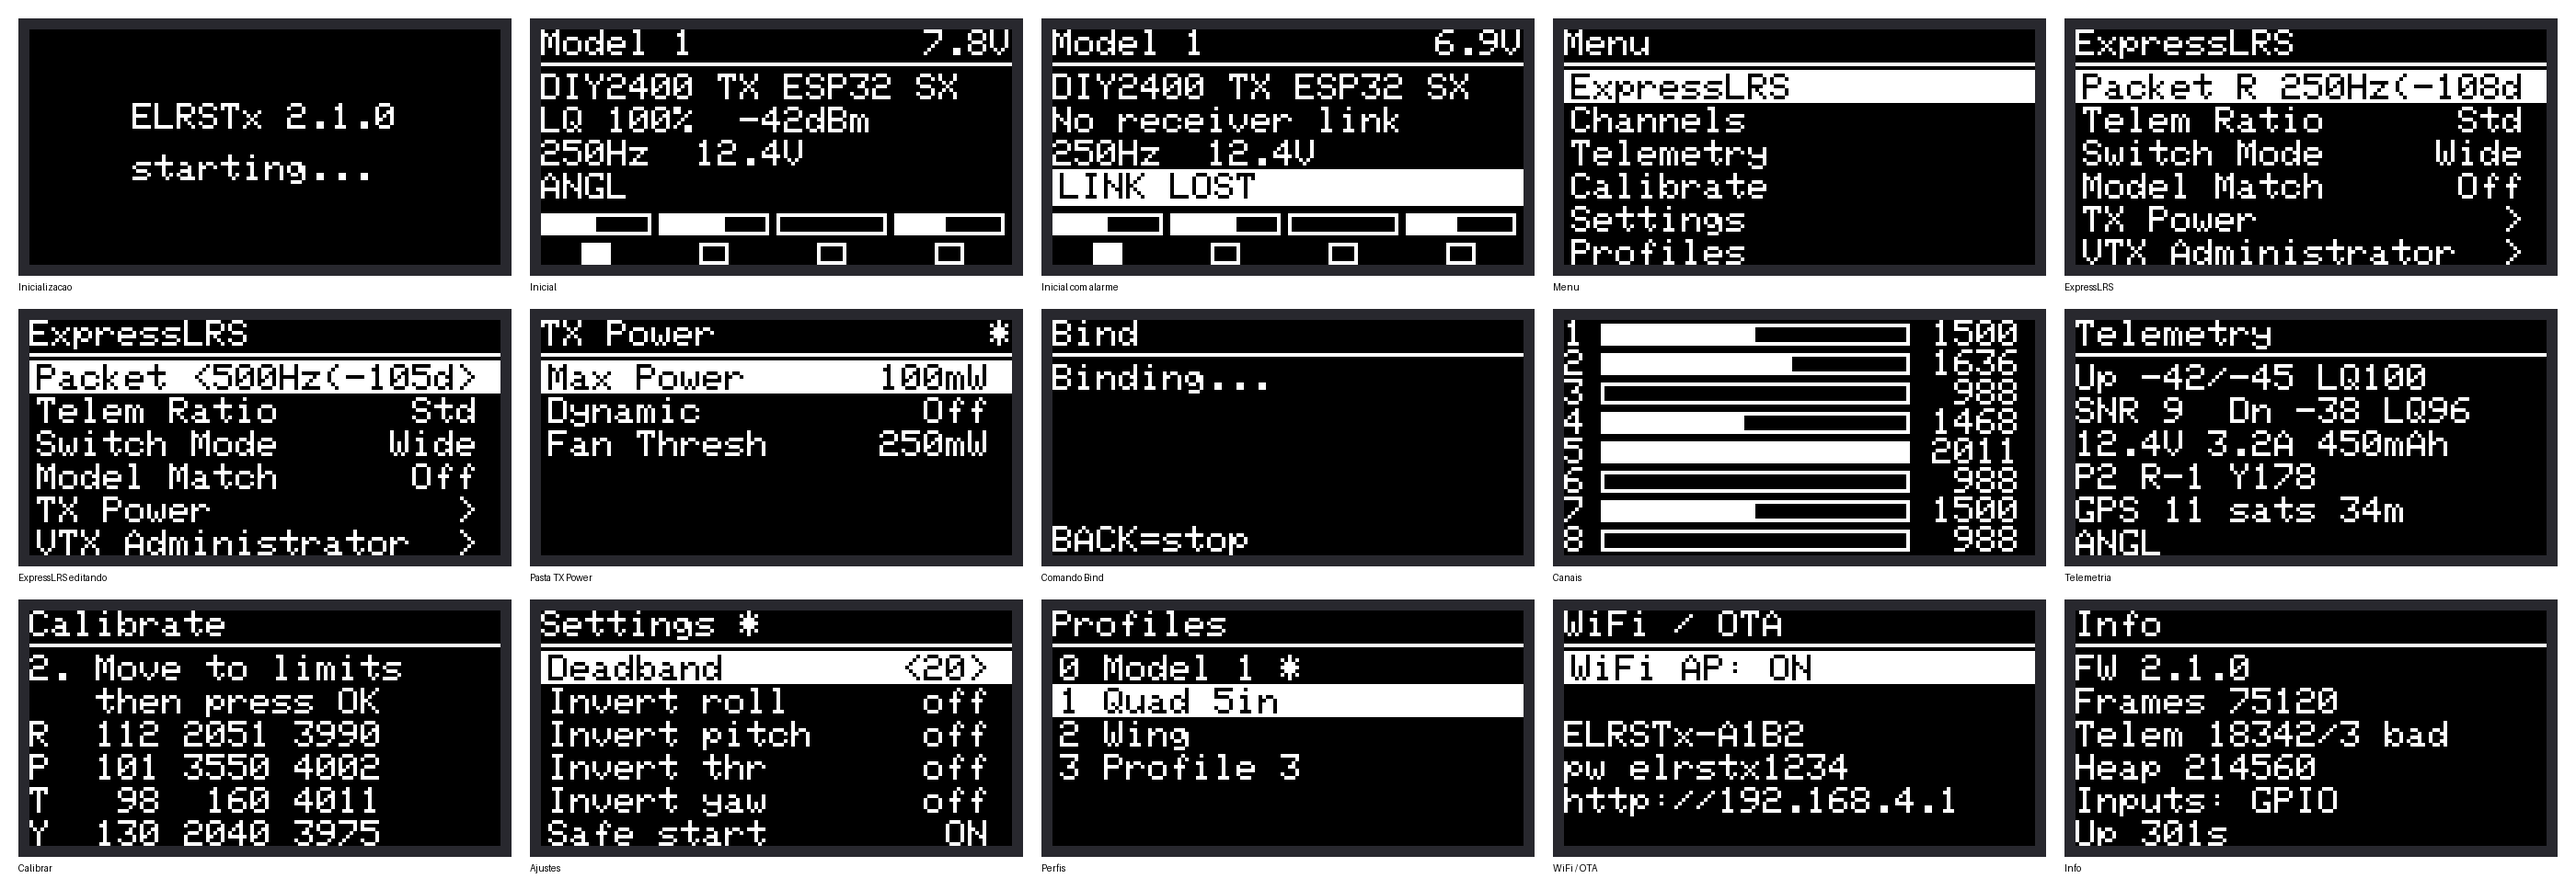
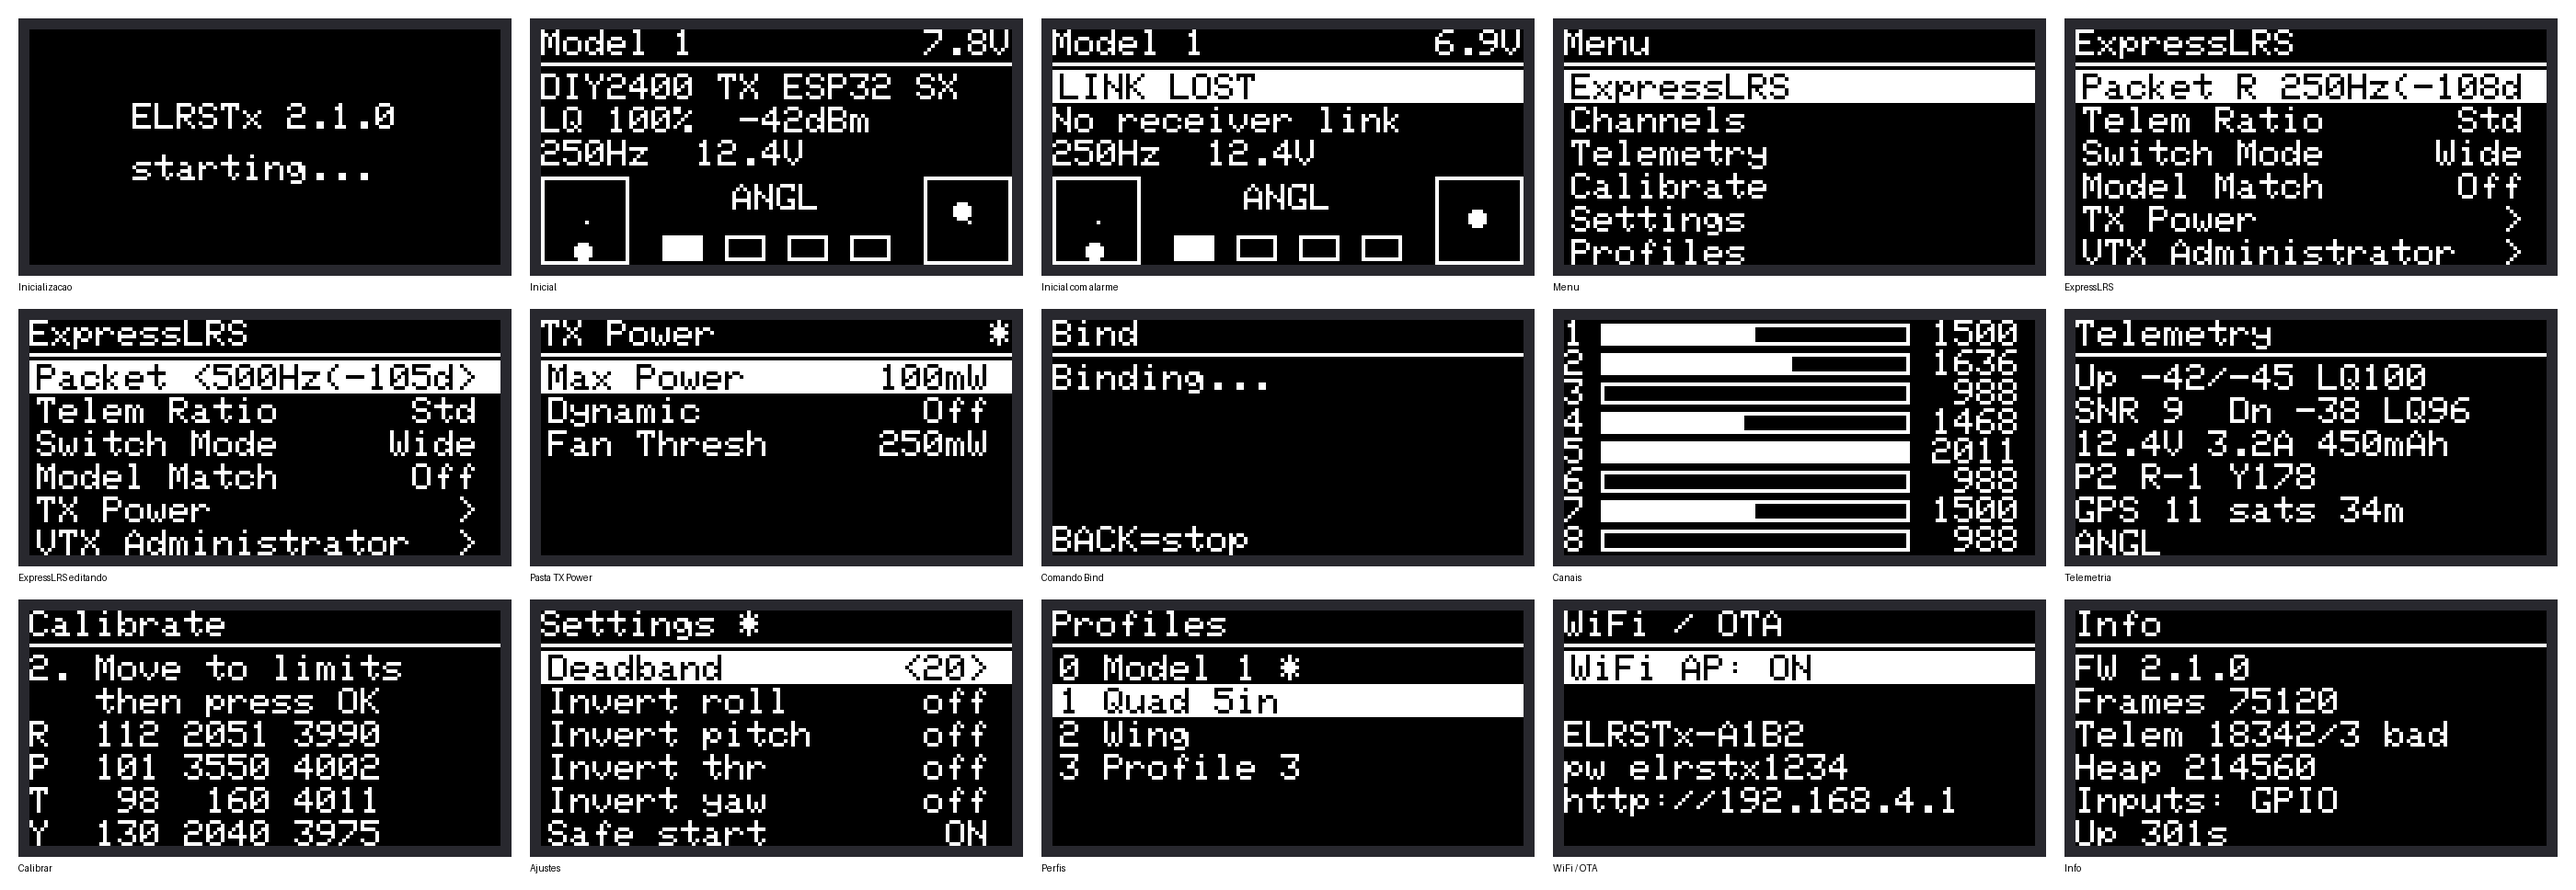
Show the sticks as EdgeTX-style gimbal squares on the home screen

Changed region(s): [[0.1864, 0.186, 0.5904, 0.3099], [0.4039, 0.062, 0.5904, 0.124]]

diff --git a/docs/screens/render_screens.py b/docs/screens/render_screens.py
@@ -114,24 +114,34 @@ class Mono:
             b = "%.1fV" % v["tx_batt"]
             self.t(128 - len(b) * 6, 0, b)
         self.g.fill_rect(0, 9, 128, 1, self.ON)
-        self.t(0, 12, v["device"])
+        if v["alarm"]:
+            self.inverted(12, v["alarm"][1])
+        else:
+            self.t(0, 12, v["device"])
         self.t(0, 21, "LQ %3u%%  -%udBm" % (v["lq"], v["rssi"]) if v["link"] else "No receiver link")
         rate = "%uHz" % v["rate"] + ("" if v["synced"] else " nosync")
         if v["rx_batt"]:
             rate += "  %.1fV" % v["rx_batt"]
         self.t(0, 30, rate)
-        if v["alarm"]:
-            self.g.fill_rect(0, 38, 128, 10, self.ON)
-            self.t(2, 39, v["alarm"][1], self.OFF)
-        elif v["mode"]:
-            self.t(0, 39, v["mode"])
-        for a in range(4):
-            self.bar(a * 32, 50, 30, 6, v["stick"][a])
+        self.gimbal(0, 40, v["gimbal"][0])
+        self.gimbal(104, 40, v["gimbal"][1])
+        if v["mode"]:
+            m = v["mode"][:12]
+            self.t(64 - len(m) * 3, 42, m)
         for i in range(4):
+            x = 33 + i * 17
             if v["aux"][i]:
-                self.g.fill_rect(i * 32 + 11, 58, 8, 6, self.ON)
+                self.g.fill_rect(x, 56, 11, 7, self.ON)
             else:
-                self.g.rect(i * 32 + 11, 58, 8, 6, self.ON)
+                self.g.rect(x, 56, 11, 7, self.ON)
+
+    def gimbal(self, x, y, pos):
+        S = 24
+        self.g.rect(x, y, S, S, self.ON)
+        self.g.fill_rect(x + S // 2, y + S // 2, 1, 1, self.ON)
+        px = x + 3 + int(pos[0] * (S - 7))
+        py = y + 3 + int((1 - pos[1]) * (S - 7))
+        self.g.d.ellipse([px - 2, py - 2, px + 2, py + 2], fill=self.ON)
 
     def list(self, v):
         self.header(v["title"])
@@ -261,18 +271,24 @@ class Color:
             self.t((240 - width(v["alarm"][1])) // 2, 129, v["alarm"][1], self.BG)
         elif v["mode"]:
             self.t(8, 129, v["mode"], self.ACCENT)
-        for a in range(4):
-            x = 8 + a * 58
-            self.t(x + 22, 158, "RPTY"[a], self.DIM, 1)
-            self.bar(x, 168, 52, 14, v["stick"][a], self.ACCENT)
+        self.gimbal(8, 160, v["gimbal"][0])
+        self.gimbal(240 - 8 - 70, 160, v["gimbal"][1])
         for i in range(4):
-            x = 8 + i * 58
+            x, y = 86 + (i % 2) * 36, 162 + (i // 2) * 36
             if v["aux"][i]:
-                self.g.round_rect(x, 196, 52, 30, 4, self.GOOD)
-                self.t(x + 14, 203, "A%d" % (i + 1), self.BG)
+                self.g.round_rect(x, y, 32, 32, 4, self.GOOD)
+                self.t(x + 4, y + 9, "A%d" % (i + 1), self.BG)
             else:
-                self.g.round_rect(x, 196, 52, 30, 4, self.OUTLINE, fill=False)
-                self.t(x + 14, 203, "A%d" % (i + 1), self.DIM)
+                self.g.round_rect(x, y, 32, 32, 4, self.OUTLINE, fill=False)
+                self.t(x + 4, y + 9, "A%d" % (i + 1), self.DIM)
+
+    def gimbal(self, x, y, pos, S=70, R=6):
+        self.g.rect(x, y, S, S, self.OUTLINE)
+        self.g.fill_rect(x + 1, y + S // 2, S - 2, 1, self.HEADER_BG)
+        self.g.fill_rect(x + S // 2, y + 1, 1, S - 2, self.HEADER_BG)
+        px = x + R + 2 + int(pos[0] * (S - 2 * R - 4))
+        py = y + R + 2 + int((1 - pos[1]) * (S - 2 * R - 4))
+        self.g.d.ellipse([px - R, py - R, px + R, py + R], fill=self.ACCENT)
 
     def list(self, v):
         rows, cur, n = v["rows"], v["cursor"], self.LIST_ROWS
@@ -360,7 +376,7 @@ class Color:
 CH = [992, 1210, 172, 940, 1811, 172, 992, 172, 1400, 992, 600, 992, 992, 992, 992, 992]
 HOME = dict(title="Model 1", tx_batt=7.8, tx_level=None, device="DIY2400 TX ESP32 SX", link=True, lq=100,
             rssi=42, rate=250, synced=True, rx_batt=12.4, alarm=None, mode="ANGL",
-            stick=[frac(CH[i]) for i in (0, 1, 2, 3)], aux=[c > 992 for c in CH[4:8]])
+            gimbal=[(frac(CH[0]), frac(CH[2])), (frac(CH[3]), frac(CH[1]))], aux=[c > 992 for c in CH[4:8]])
 ELRS_ROOT = [dict(label="Packet Rate", value="250Hz(-108dBm)"), dict(label="Telem Ratio", value="Std"),
              dict(label="Switch Mode", value="Wide"), dict(label="Model Match", value="Off"),
              dict(label="TX Power", folder=True), dict(label="VTX Administrator", folder=True),
@@ -375,7 +391,7 @@ SCREENS = [
     ("00-splash", "Inicializacao", lambda d: d.splash("2.1.0")),
     ("01-home", "Inicial", lambda d: d.home(HOME)),
     ("02-home-alarm", "Inicial com alarme",
-     lambda d: d.home(dict(HOME, link=False, alarm=("crit", "LINK LOST"), tx_batt=6.9, tx_level="warn"))),
+     lambda d: d.home(dict(HOME, link=False, alarm=("crit", "LINK LOST"), gimbal=[(0.5, 0.0), (0.5, 0.5)], tx_batt=6.9, tx_level="warn"))),
     ("03-menu", "Menu", lambda d: d.list(dict(title="Menu", cursor=0, rows=[dict(label=l) for l in [
         "ExpressLRS", "Channels", "Telemetry", "Calibrate", "Settings", "Profiles", "WiFi / OTA", "Info"]]))),
     ("04-elrs", "ExpressLRS", lambda d: d.list(dict(title="ExpressLRS", cursor=0, rows=ELRS_ROOT))),

diff --git a/src/DisplaySSD1306.cpp b/src/DisplaySSD1306.cpp
@@ -32,6 +32,16 @@ void bar(int16_t x, int16_t y, int16_t w, int16_t h, float f) {
     oled.fillRect(x + 1, y + 1, (int16_t)((w - 2) * f), h - 2, ON);
 }
 
+// Square with a dot at the stick position (EdgeTX style), 24x24
+void gimbal(int16_t x, int16_t y, const float* pos) {
+    constexpr int16_t S = 24;
+    oled.drawRect(x, y, S, S, ON);
+    oled.drawPixel(x + S / 2, y + S / 2, ON);
+    const int16_t px = x + 3 + (int16_t)(pos[0] * (S - 7));
+    const int16_t py = y + 3 + (int16_t)((1 - pos[1]) * (S - 7));
+    oled.fillCircle(px, py, 2, ON);
+}
+
 void inverted(int16_t y, const char* s) {
     oled.fillRect(0, y - 1, 128, 9, ON);
     oled.setTextColor(OFF);
@@ -86,7 +96,9 @@ void home(const HomeView& v) {
     }
     oled.drawFastHLine(0, 9, 128, ON);
 
-    text(0, 12, !v.moduleAlive ? "No ELRS module" : v.deviceName[0] ? v.deviceName : "ELRS module OK");
+    // An alarm takes the module line, inverted
+    if (v.alarm != Level::None) inverted(12, v.alarmText);
+    else text(0, 12, !v.moduleAlive ? "No ELRS module" : v.deviceName[0] ? v.deviceName : "ELRS module OK");
 
     if (v.link) snprintf(buf, sizeof(buf), "LQ %3u%%  -%udBm", v.lq, v.rssi);
     else snprintf(buf, sizeof(buf), "No receiver link");
@@ -97,19 +109,17 @@ void home(const HomeView& v) {
     if (v.rxBatteryValid) rate += "  " + String(v.rxBatteryDv / 10.0f, 1) + "V";
     text(0, 30, rate.c_str());
 
-    if (v.alarm != Level::None) {
-        oled.fillRect(0, 38, 128, 10, ON);
-        oled.setTextColor(OFF);
-        text(2, 39, v.alarmText);
-        oled.setTextColor(ON);
-    } else if (v.flightMode[0]) {
-        text(0, 39, v.flightMode);
+    // Gimbals in the bottom corners, flight mode and AUX switches between them
+    gimbal(0, 40, v.gimbal[0]);
+    gimbal(104, 40, v.gimbal[1]);
+    if (v.flightMode[0]) {
+        String m = String(v.flightMode).substring(0, 12);
+        text(64 - m.length() * 3, 42, m.c_str());
     }
-
-    for (uint8_t a = 0; a < 4; a++) bar(a * 32, 50, 30, 6, v.stick[a]);
     for (uint8_t i = 0; i < 4; i++) {
-        if (v.aux[i]) oled.fillRect(i * 32 + 11, 58, 8, 6, ON);
-        else oled.drawRect(i * 32 + 11, 58, 8, 6, ON);
+        const int16_t x = 33 + i * 17;
+        if (v.aux[i]) oled.fillRect(x, 56, 11, 7, ON);
+        else oled.drawRect(x, 56, 11, 7, ON);
     }
     oled.display();
 }

diff --git a/src/DisplayST7789.cpp b/src/DisplayST7789.cpp
@@ -110,6 +110,18 @@ void bar(int16_t x, int16_t y, int16_t w, int16_t h, float f, uint16_t color) {
     g->fillRect(x + 2, y + 2, (int16_t)((w - 4) * f), h - 4, color);
 }
 
+// Square with a dot at the stick position (EdgeTX style)
+constexpr int16_t GIMBAL = 70;
+void gimbal(int16_t x, int16_t y, const float* pos) {
+    constexpr int16_t R = 6;
+    g->drawRect(x, y, GIMBAL, GIMBAL, OUTLINE);
+    g->drawFastHLine(x + 1, y + GIMBAL / 2, GIMBAL - 2, HEADER_BG);
+    g->drawFastVLine(x + GIMBAL / 2, y + 1, GIMBAL - 2, HEADER_BG);
+    const int16_t px = x + R + 2 + (int16_t)(pos[0] * (GIMBAL - 2 * R - 4));
+    const int16_t py = y + R + 2 + (int16_t)((1 - pos[1]) * (GIMBAL - 2 * R - 4));
+    g->fillCircle(px, py, R, ACCENT);
+}
+
 }  // namespace
 
 bool begin() {
@@ -172,25 +184,20 @@ void home(const HomeView& v) {
             text(8, 129, v.flightMode, ACCENT);
         }
 
-        // Sticks
-        for (uint8_t a = 0; a < 4; a++) {
-            const int16_t x = 8 + a * 58;
-            const char l[2] = {v.axisLetter[a], 0};
-            text(x + 22, 158, l, DIM, 1);
-            bar(x, 168, 52, 14, v.stick[a], ACCENT);
-        }
-
-        // AUX switches
+        // Gimbals in the bottom corners, AUX switches 2x2 between them
+        gimbal(8, 160, v.gimbal[0]);
+        gimbal(SIZE - 8 - GIMBAL, 160, v.gimbal[1]);
         for (uint8_t i = 0; i < 4; i++) {
-            const int16_t x = 8 + i * 58;
+            const int16_t x = 86 + (i % 2) * 36;
+            const int16_t y = 162 + (i / 2) * 36;
             char l[4];
             snprintf(l, sizeof(l), "A%u", i + 1);
             if (v.aux[i]) {
-                g->fillRoundRect(x, 196, 52, 30, 4, GOOD);
-                text(x + 14, 203, l, BG);
+                g->fillRoundRect(x, y, 32, 32, 4, GOOD);
+                text(x + 4, y + 9, l, BG);
             } else {
-                g->drawRoundRect(x, 196, 52, 30, 4, OUTLINE);
-                text(x + 14, 203, l, DIM);
+                g->drawRoundRect(x, y, 32, 32, 4, OUTLINE);
+                text(x + 4, y + 9, l, DIM);
             }
         }
     });

diff --git a/src/UI.cpp b/src/UI.cpp
@@ -407,10 +407,12 @@ void showHome() {
     v.alarm = alarmLevel == ALARM_CRIT ? Level::Crit : alarmLevel == ALARM_WARN ? Level::Warn : Level::None;
     v.alarmText = alarmText;
     v.flightMode = st.telem.flightMode;
-    for (uint8_t a = 0; a < AXIS_COUNT; a++) {
-        v.axisLetter[a] = toupper(Config::axisName(a)[0]);
-        v.stick[a] = Display::channelFraction(st.channels[cfg.model.channel[a]]);
-    }
+    // Physical sticks (Pins.h): left = roll X / throttle Y, right = yaw X / pitch Y
+    auto axis = [&](uint8_t a) { return Display::channelFraction(st.channels[cfg.model.channel[a]]); };
+    v.gimbal[0][0] = axis(AXIS_ROLL);
+    v.gimbal[0][1] = axis(AXIS_THROTTLE);
+    v.gimbal[1][0] = axis(AXIS_YAW);
+    v.gimbal[1][1] = axis(AXIS_PITCH);
     for (uint8_t i = 0; i < AUX_COUNT; i++) v.aux[i] = st.channels[AUX_FIRST_CHANNEL + i] > CRSF_CHANNEL_VALUE_MID;
     Display::home(v);
 }

diff --git a/include/Display.h b/include/Display.h
@@ -24,8 +24,7 @@ struct HomeView {
     Level alarm;
     const char* alarmText;
     const char* flightMode;
-    char axisLetter[4];       // R P T Y
-    float stick[4];           // 0..1
+    float gimbal[2][2];       // [left, right][x, y], 0..1, y = 1 at the top
     bool aux[4];
 };
 
